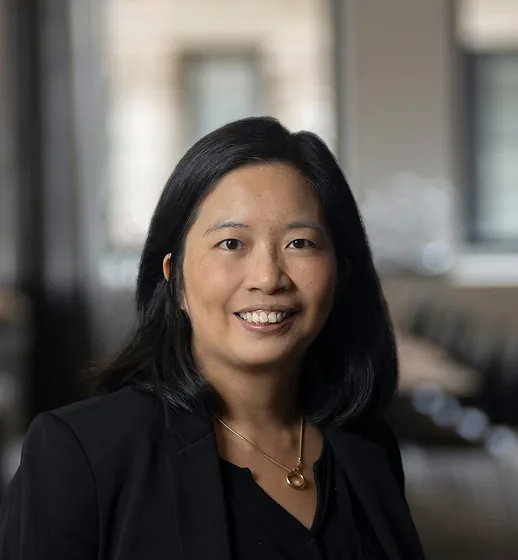
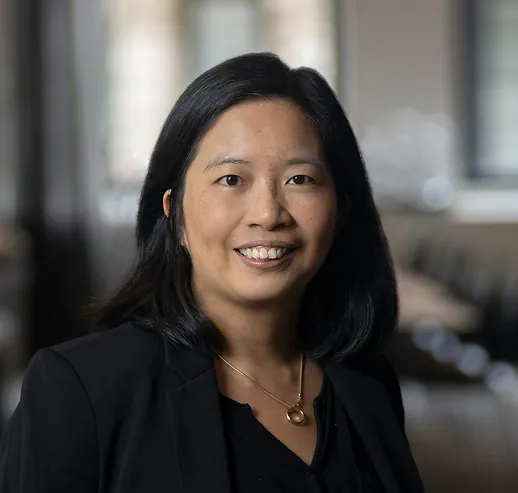
update schedule

diff --git a/index.html b/index.html
@@ -148,7 +148,7 @@
 
             <section id="schedule">
                 <h2>Tentative Schedule</h2>
-                <p>We plan a one-day, in-person workshop from 09:00 to 17:00. Times are local to the venue. The assigned day, room, speaker order, and talk titles will be announced after confirmation.</p>
+                <p>We plan a one-day, in-person workshop from 09:00 to 17:00. Times are local to the venue. The program includes seven confirmed invited speakers. The assigned day, room, speaker order, and talk titles will be announced after confirmation.</p>
 
                 <div class="table-responsive">
                     <table class="table table-striped">
@@ -161,56 +161,56 @@
                         <tbody>
                             <tr>
                                 <td>09:00 - 09:10</td>
-                                <td>Opening: scientific-agent challenges and goals for the day</td>
+                                <td>Opening remarks</td>
                             </tr>
                             <tr>
-                                <td>09:10 - 10:10</td>
-                                <td>Invited talks 1-3: scientific models, knowledge, and tools</td>
+                                <td>09:10 - 10:00</td>
+                                <td>Invited talks 1-2</td>
                             </tr>
                             <tr>
-                                <td>10:10 - 10:40</td>
+                                <td>10:00 - 10:40</td>
                                 <td>Poster session I, demonstrations, and coffee</td>
                             </tr>
                             <tr>
-                                <td>10:40 - 11:40</td>
-                                <td>Invited talks 4-6: experiments, workflows, and agent learning</td>
+                                <td>10:40 - 11:30</td>
+                                <td>Invited talks 3-4</td>
                             </tr>
                             <tr>
-                                <td>11:40 - 12:10</td>
+                                <td>11:30 - 12:00</td>
                                 <td>Contributed talks 1-3</td>
                             </tr>
                             <tr>
-                                <td>12:10 - 13:10</td>
+                                <td>12:00 - 13:00</td>
                                 <td>Lunch and informal exchange</td>
                             </tr>
                             <tr>
-                                <td>13:10 - 14:10</td>
-                                <td>Invited talks 7-9: uncertainty, evaluation, and discovery</td>
+                                <td>13:00 - 14:15</td>
+                                <td>Invited talks 5-7</td>
                             </tr>
                             <tr>
-                                <td>14:10 - 14:40</td>
+                                <td>14:15 - 14:45</td>
                                 <td>Contributed talks 4-6</td>
                             </tr>
                             <tr>
-                                <td>14:40 - 15:20</td>
+                                <td>14:45 - 15:25</td>
                                 <td>Poster session II, demonstrations, and coffee</td>
                             </tr>
                             <tr>
-                                <td>15:20 - 16:00</td>
-                                <td>Panel: What evidence would convince a scientist to trust an agent?</td>
+                                <td>15:25 - 16:05</td>
+                                <td>Evaluation panel</td>
                             </tr>
                             <tr>
-                                <td>16:00 - 16:45</td>
-                                <td>Small-group discussions: tools, experiment design, and evaluation</td>
+                                <td>16:05 - 16:45</td>
+                                <td>Small-group discussions</td>
                             </tr>
                             <tr>
                                 <td>16:45 - 17:00</td>
-                                <td>Group reports, shared research priorities, and closing</td>
+                                <td>Group reports and closing</td>
                             </tr>
                         </tbody>
                     </table>
                 </div>
-                <p>Invited slots include 15 minutes of presentation and 5 minutes of questions. Contributed slots include 8 minutes of presentation and 2 minutes of questions. The panel and small-group discussions will turn open scientific questions into concrete evaluation ideas and community research priorities.</p>
+                <p>Each of the seven invited slots includes 20 minutes of presentation and 5 minutes of questions. Contributed slots include 8 minutes of presentation and 2 minutes of questions. The panel and small-group discussions will turn open scientific questions into concrete evaluation ideas and community research priorities.</p>
             </section>
 
             <section id="organizers" class="Organizers">
